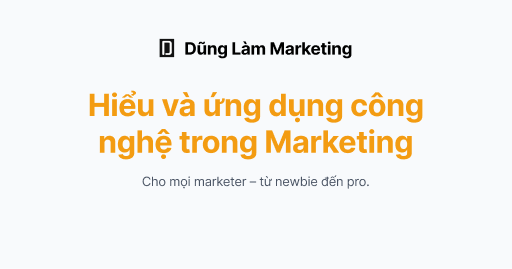
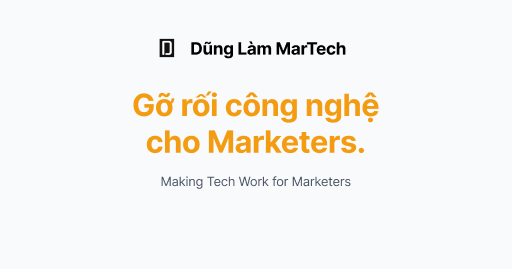
changed metadata. changed site image

Changed region(s): [[0.1562, 0.3271, 0.8438, 0.5948], [0.2812, 0.6543, 0.7188, 0.7138], [0.3438, 0.1487, 0.6875, 0.2379]]

diff --git a/src/routes/+page.svelte b/src/routes/+page.svelte
@@ -14,17 +14,13 @@
 
 <section class="intro-section">
 	
-	<h1>Về Dũng Làm Marketing</h1>
-	<p><b>Dũng Làm Marketing</b> là nơi tôi chia sẻ và lưu giữ kinh nghiệm làm marketing của mình. 
-		Blog xoay quanh hai chủ đề chính: </p>
-		<ul>
-			<li>Góc nhìn cá nhân về các câu chuyện, tin tức, và công nghệ mới trong lĩnh vực marketing.</li>
-			<li>Hướng dẫn chi tiết cho các khía cạnh technical như Attribution Modeling, Facebook Pixel, Conversion API, v.v.</li>
-		</ul>
-	<p>Tôi đã dành 4 năm để học lập trình với mong muốn tự mày mò tìm hiểu về những công nghệ 
-		được ứng dụng trong Marketing ngày nay. Với kiến thức này, tôi hi vọng sẽ mang lại những
-		nội dung MarTech gần gũi và dễ hiểu cho các marketer từ newbies đến pros. Nếu bạn thấy có ích,
-		hãy thường xuyên ghé <a href="https://dungtran.me">dungtran.me</a> nhé!
+	<h1>Về Dũng Làm MarTech</h1>
+	<p>Tôi quyết định làm <a href="https://dungtran.me">dungtran.me</a> để nó trở thành góc cafe anh chị em trong ngành lui tới, chia 
+		sẻ chuyện làm nghề. Hơn thế nữa, cũng muốn nó là nơi gỡ rối "kỹ thuật" cho rất nhiều bạn còn lúng túng
+		bơi lội với công nghệ. </p>
+		
+	<p>Nội dung chính của blog sẽ xoay quanh các chủ đề kỹ thuật khó gặm - từ tracking đến phân tích dữ liệu và tự dộng hoá. Hi vọng với 
+		hướng tiếp cận gần gũi, đơn giản blog sẽ phần nào có ích cho công việc của các bạn. 
 	</p>
 	<MinimalPostsList posts={data.posts} />
 </section>

diff --git a/src/lib/config.js b/src/lib/config.js
@@ -1,6 +1,6 @@
-export const siteTitle = 'Dũng Làm Marketing - Ứng dụng công nghệ trong marketing | dungtran.me';
+export const siteTitle = 'Dũng Làm MarTech | dungtran.me';
 export const siteDescription =
-	'dungtran.me cung cấp hướng dẫn chi tiết cho các chủ đề nặng về technical như: Setup & chạy quảng cáo Meta & Google, tích hợp & phân tích dữ liệu chiến dịch, testing, tối ưu hoá, tự động hoá, gian lận quảng cáo v.v..';
+	'Gỡ rối kỹ thuật cho marketer từ newbie tới pro! Tại dungtran.me, tôi sẽ giúp bạn làm quen với những kỹ thuật khó nhằn trong marketing – từ tracking, phân tích dữ liệu đến tự động hoá – một cách dễ hiểu và gần gũi.';
 export const siteURL = 'https://www.dungtran.me';
 export const siteImage = `${siteURL}/images/dungtran-og-image.png`;
 export const siteLink = 'https://github.com/josh-collinsworth/sveltekit-blog-starter';

diff --git a/src/routes/+layout.js b/src/routes/+layout.js
@@ -1,18 +1,15 @@
-import { error } from '@sveltejs/kit'
+import { error } from '@sveltejs/kit';
 
-// Ensures all pages under this layout (which is all of them) are statically prerendered at build time
-export const prerender = true
+export const prerender = true;
 
-// Allows client side routing. Necessary for page transitions and link prefetching; change to false if you prefer ordinary routing without JS
-export const csr = true
+export const csr = true;
 
 export const load = async ({ url }) => {
 	try {
 		return {
 			path: url.pathname
-		}
-	}
-	catch(err) {
+		};
+	} catch (err) {
 		error(500, err);
 	}
-}
+};

diff --git a/src/routes/blog/+page.svelte b/src/routes/blog/+page.svelte
@@ -12,7 +12,7 @@
 	<meta data-key="description" name="description" content={siteDescription}>
 </svelte:head>
 
-<h1>Dũng Làm Marketing | Blog</h1>
+<h1>Blog</h1>
 
 <PostsList posts={data.posts} />
 
